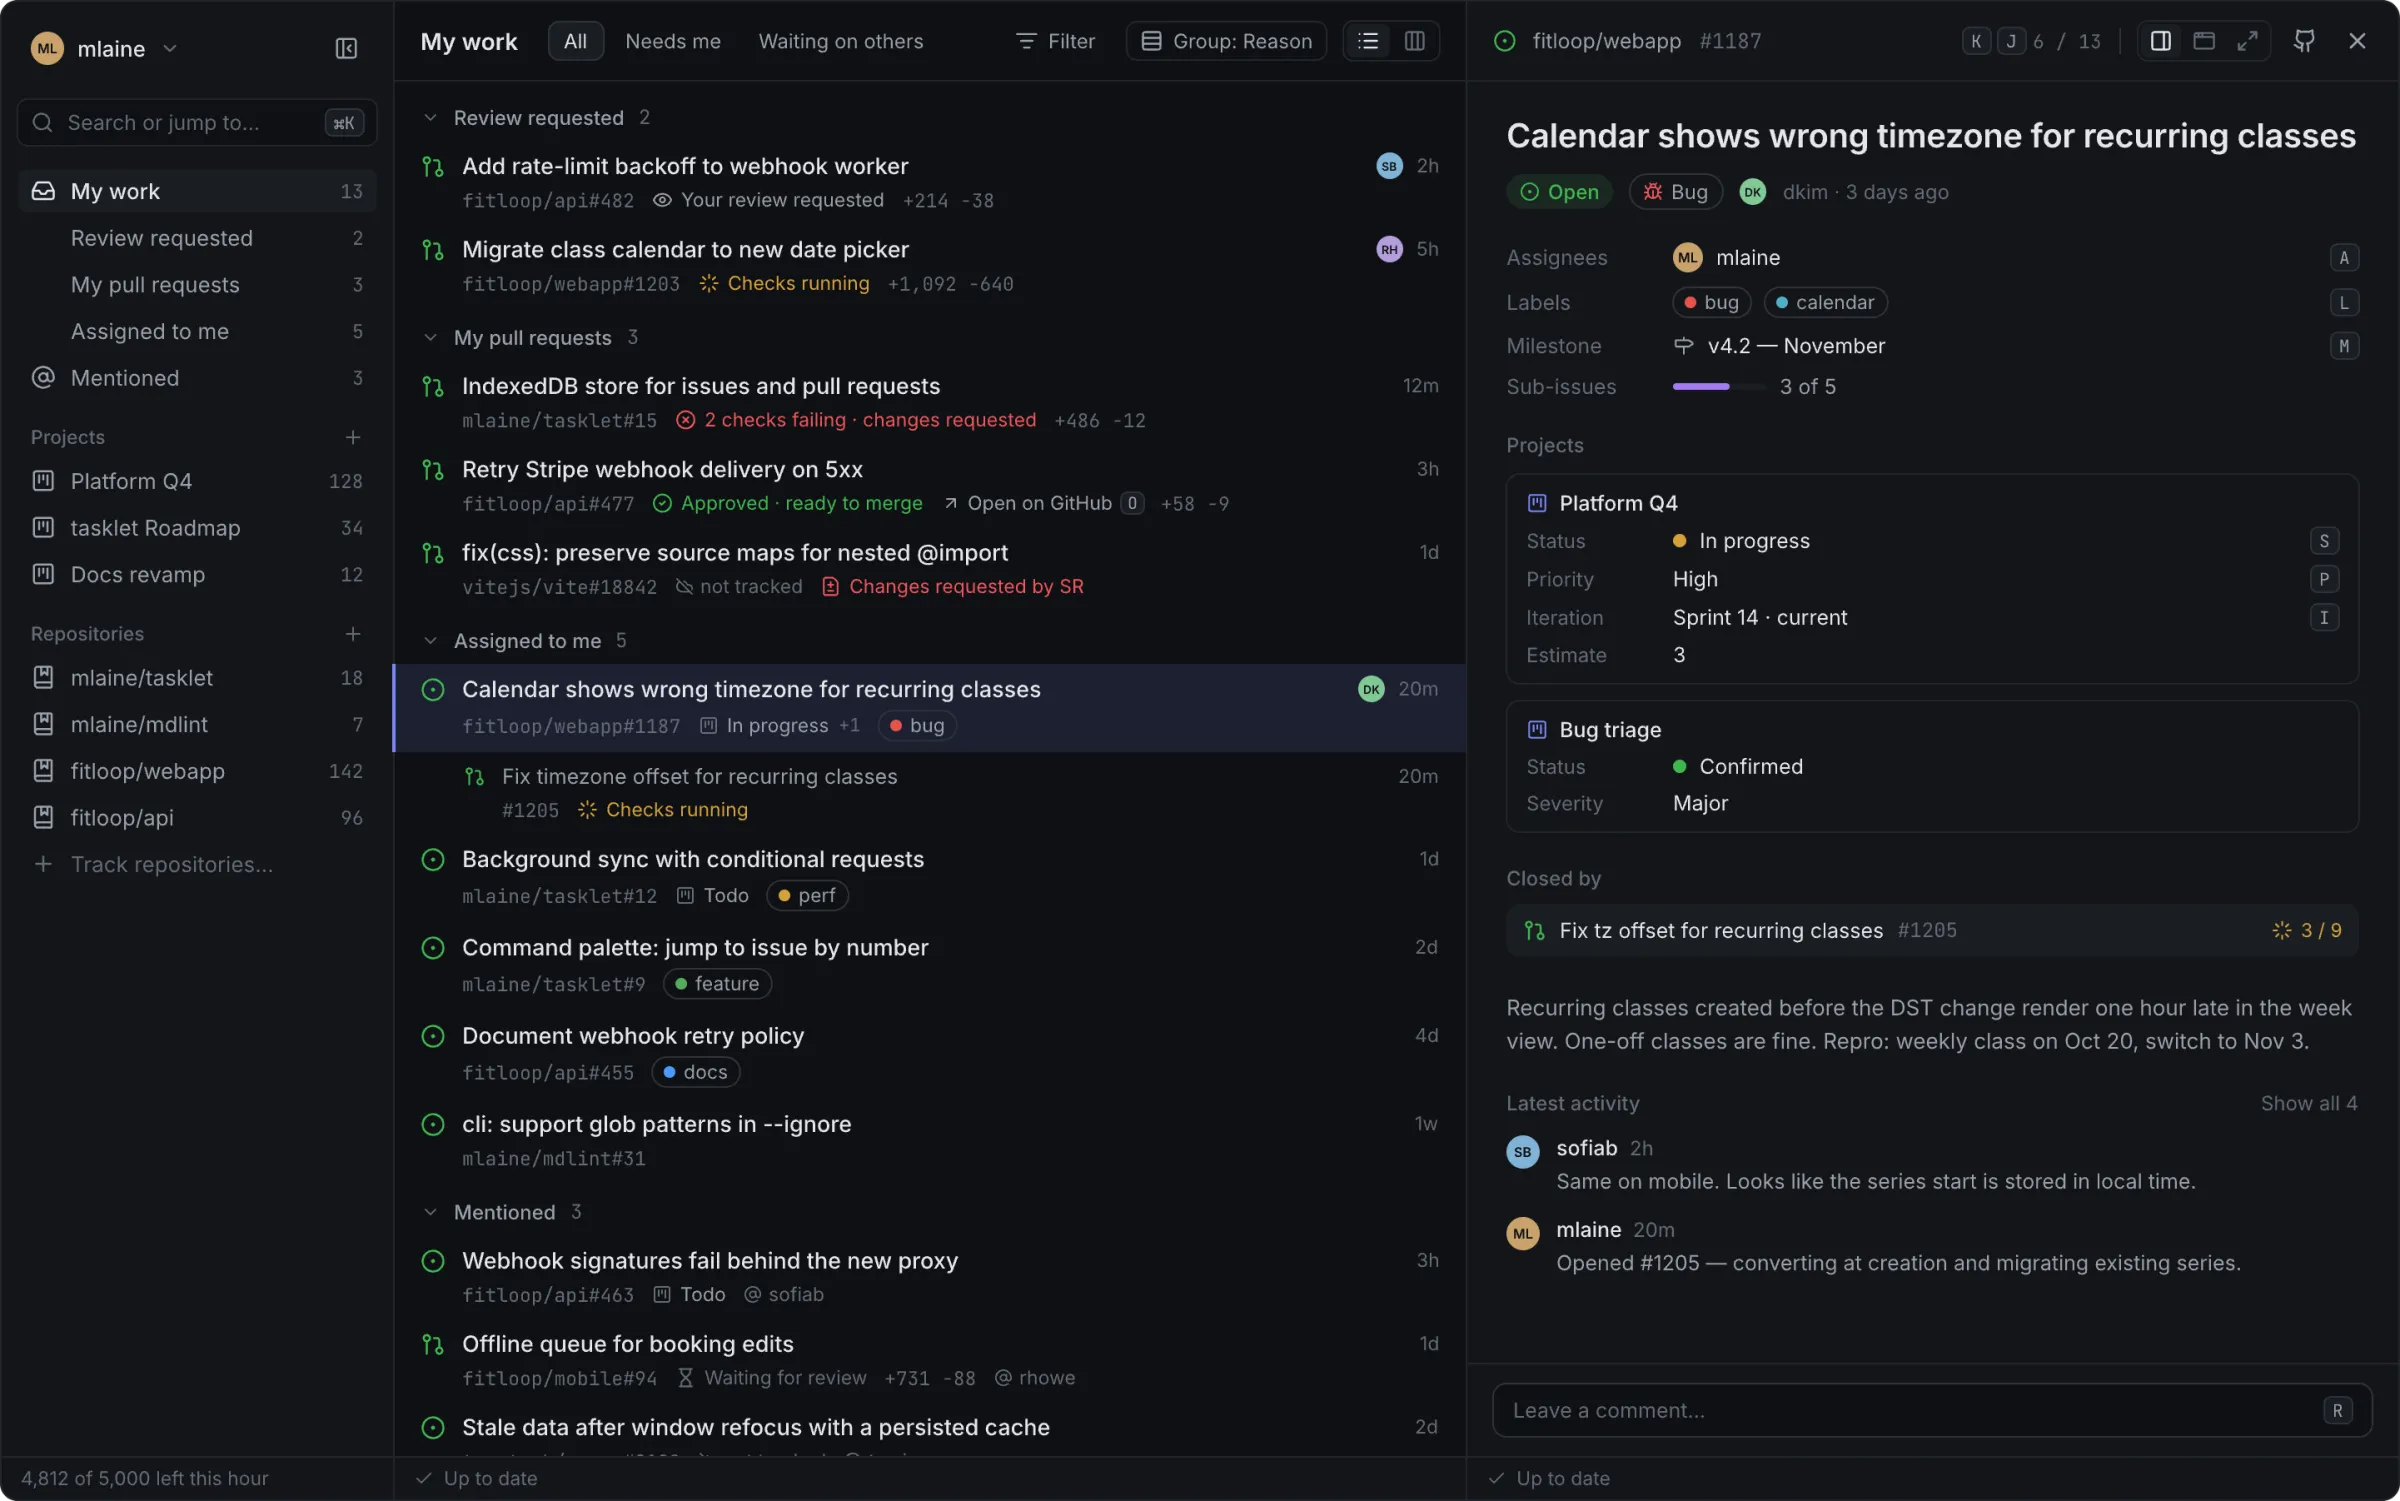
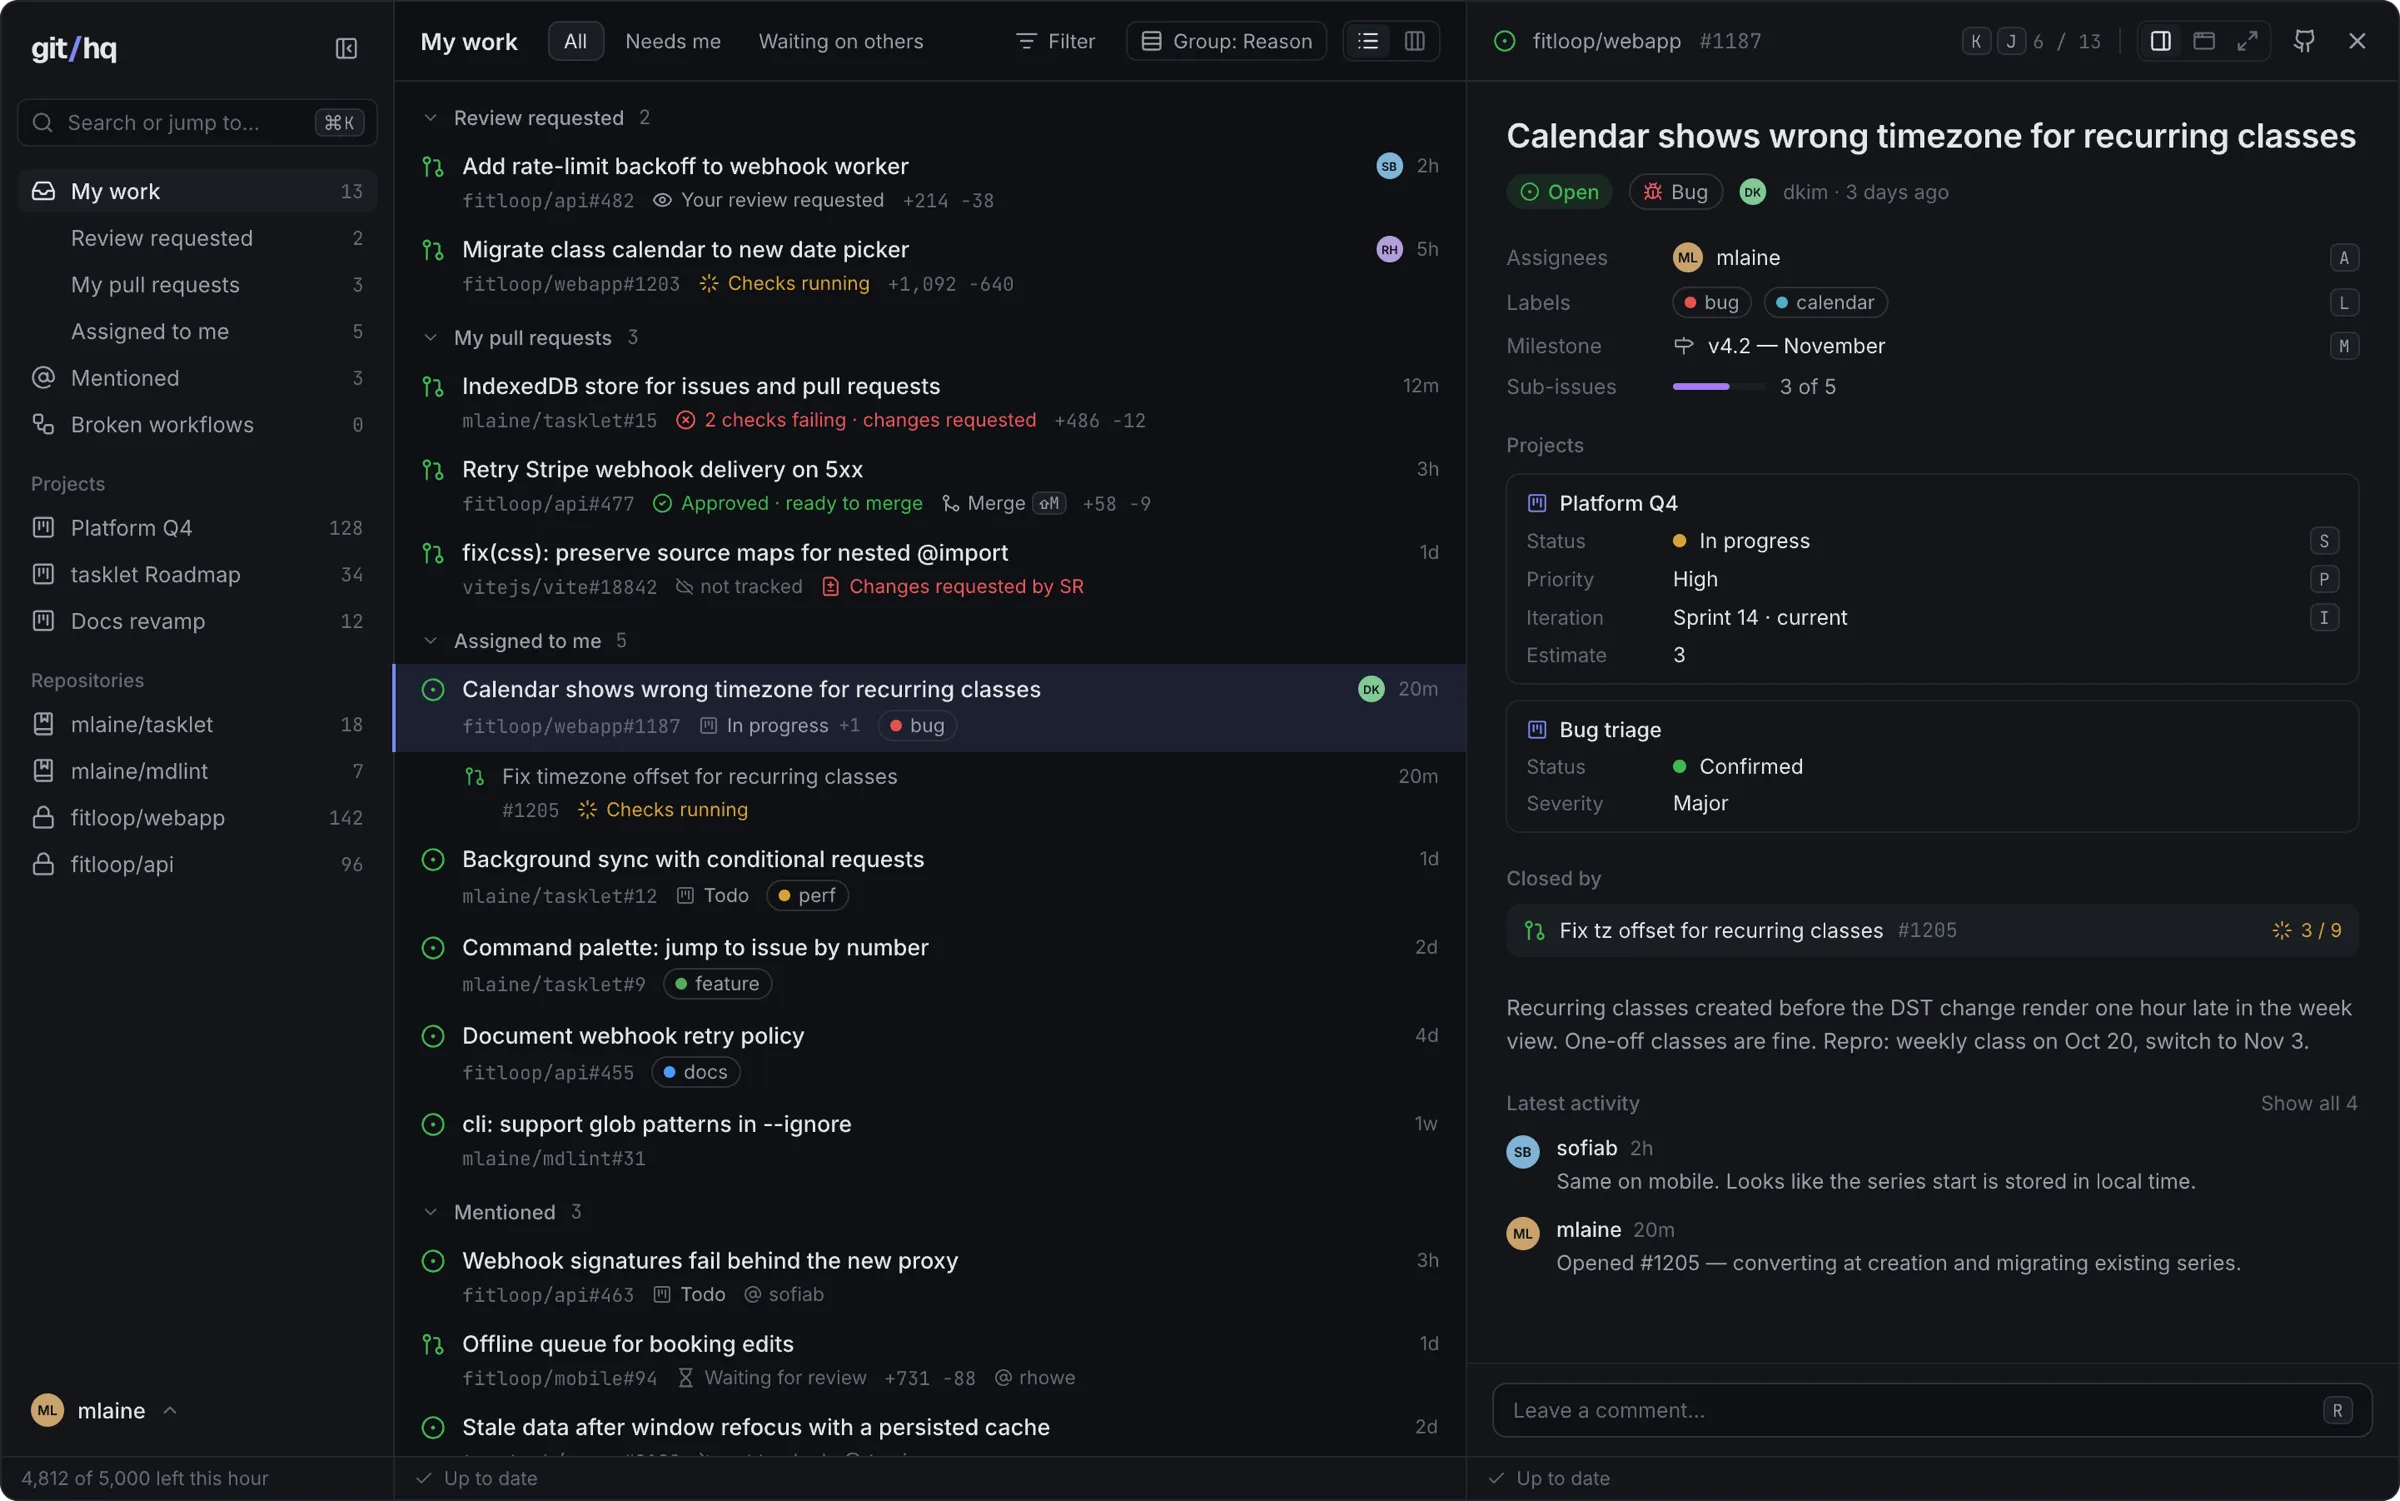
feat: say githq may touch its own settings repository, and show the new sidebar in pictures (#72)
Part 5 of 5; previous: https://github.com/kedrzu/githq/pull/71.

**Skim.** The sign-in permission lines (landing, desktop) mention the
settings repository; the landing picture, the OpenGraph image and the
README's picture are re-exported from the design file with the new
sidebar.

🤖 Generated with [Claude Code](https://claude.com/claude-code)

diff --git a/docs/design/settings-sync/DECISIONS.md b/docs/design/settings-sync/DECISIONS.md
@@ -87,8 +87,8 @@ raced another device is refused rather than silently overwriting it.
 
 Costs accepted: one more repository in the account, which githq has to hide from its own lists. It does not show on
 the public profile by default. Every write is a commit, so history keeps old settings until the repository is deleted.
-The landing page's permission line (`packages/app/landing/LandingPermission.loc.yaml:2`), "githq only touches issues,
-pull requests and projects", has to change.
+The permission lines on the landing page (`packages/app/landing/LandingPermission.loc.yaml`) and the desktop sign-in
+(`packages/app/desktop/DesktopSignIn.loc.yaml`) say githq also touches, if asked, its own settings repository.
 
 > **Checked 2026-11-01:** "By default, your contribution graph and Achievements only show activity from public
 > repositories." — [Contributions on your profile](https://docs.github.com/en/account-and-profile/concepts/contributions-on-your-profile).
@@ -271,7 +271,7 @@ checks it.
 
 > **Checked 2026-11-01 (live, creating kedrzu/githq-settings):** `POST /user/repos` (private, `auto_init: false`), then
 > `PUT …/contents/settings.json` without `sha` two seconds later → 201, the repository initialised. `PUT` without `sha` on an
-> existing file → 422 "\"sha\" wasn't supplied"; with a stale `sha` → 409. Both are read again and merged. CORS preflight
+> existing file → 422 ""sha" wasn't supplied"; with a stale `sha` → 409. Both are read again and merged. CORS preflight
 > from `http://localhost:8787` for `POST /user/repos` and `PUT …/contents/…` → 204, `allow-origin: *`.
 
 ## D15

diff --git a/docs/design/githq/DECISIONS.md b/docs/design/githq/DECISIONS.md
@@ -312,7 +312,8 @@ straight to GitHub's consent screen. Supersedes G1b in [D20](#d20) (user, 2026-1
 says what githq is, so a screen between it and GitHub only adds a click). What G1b explained moves:
 
 - one line under each "Sign in with GitHub" on the landing page warns that GitHub will ask for full
-  repository access and that githq only touches issues, pull requests and projects, linking to a "Why?"
+  repository access and that githq only touches issues, pull requests, projects and, if you ask, its own settings repository
+  ([settings-sync D6](../settings-sync/DECISIONS.md#d6)), linking to a "Why?"
   that lives on the Privacy page (scopes, why nothing narrower exists, where the data goes);
 - coming back from GitHub with the sign-in cancelled or failed lands on the landing page with a one-line,
   dismissible banner and "Try again" (screen G1, formerly G1c);
